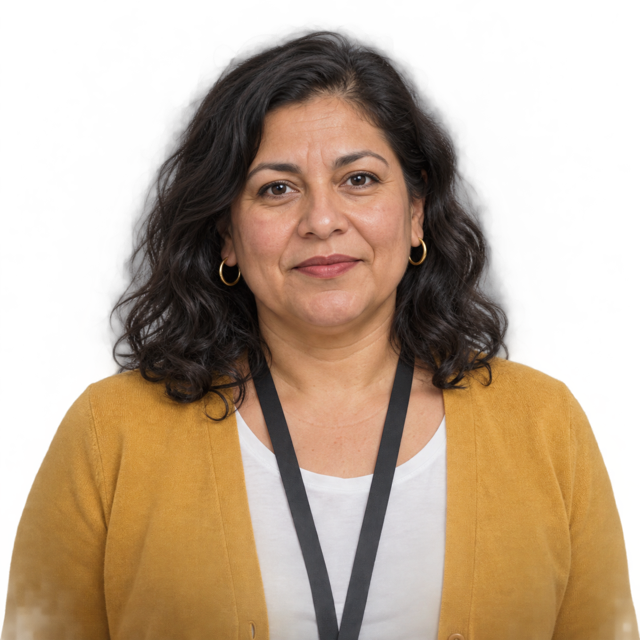
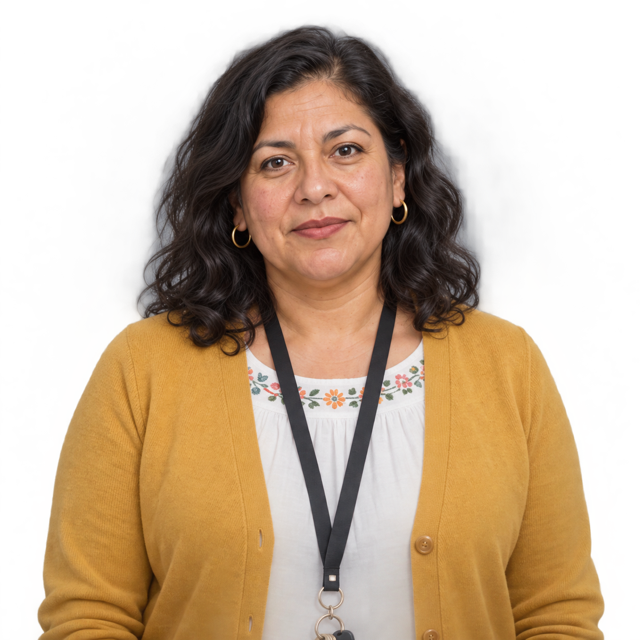
Round 7 art: radio prop, wardrobe v2 for Don Aurelio (guayabera) and Pilar (embroidered neckline); assets rebuilt

diff --git a/image_generation/187_ch_mx_leader_sep_fig_stand_A_v2.md b/image_generation/187_ch_mx_leader_sep_fig_stand_A_v2.md
@@ -11,7 +11,7 @@ depends_on: ["ch_mx_leader_sep_ref_A_v2"]
 attach: "out/ch_mx_leader_sep_ref_A_v2.png"
 save_image_as: "out/ch_mx_leader_sep_fig_stand_A_v2.png"
 save_prompt_used_as: "out/ch_mx_leader_sep_fig_stand_A_v2.prompt.txt"
-status: "pending"
+status: "done"
 ---
 
 # ch_mx_leader_sep_fig_stand_A_v2

diff --git a/image_generation/192_ch_mx_leader_int_fig_stand_A_v2.md b/image_generation/192_ch_mx_leader_int_fig_stand_A_v2.md
@@ -11,7 +11,7 @@ depends_on: ["ch_mx_leader_int_ref_A_v2"]
 attach: "out/ch_mx_leader_int_ref_A_v2.png"
 save_image_as: "out/ch_mx_leader_int_fig_stand_A_v2.png"
 save_prompt_used_as: "out/ch_mx_leader_int_fig_stand_A_v2.prompt.txt"
-status: "pending"
+status: "done"
 ---
 
 # ch_mx_leader_int_fig_stand_A_v2

diff --git a/image_generation/184_ch_mx_leader_sep_neutral_A_v2.md b/image_generation/184_ch_mx_leader_sep_neutral_A_v2.md
@@ -11,7 +11,7 @@ depends_on: ["ch_mx_leader_sep_ref_A_v2"]
 attach: "out/ch_mx_leader_sep_ref_A_v2.png"
 save_image_as: "out/ch_mx_leader_sep_neutral_A_v2.png"
 save_prompt_used_as: "out/ch_mx_leader_sep_neutral_A_v2.prompt.txt"
-status: "pending"
+status: "done"
 ---
 
 # ch_mx_leader_sep_neutral_A_v2

diff --git a/image_generation/186_ch_mx_leader_sep_guarded_A_v2.md b/image_generation/186_ch_mx_leader_sep_guarded_A_v2.md
@@ -11,7 +11,7 @@ depends_on: ["ch_mx_leader_sep_ref_A_v2"]
 attach: "out/ch_mx_leader_sep_ref_A_v2.png"
 save_image_as: "out/ch_mx_leader_sep_guarded_A_v2.png"
 save_prompt_used_as: "out/ch_mx_leader_sep_guarded_A_v2.prompt.txt"
-status: "pending"
+status: "done"
 ---
 
 # ch_mx_leader_sep_guarded_A_v2

diff --git a/image_generation/189_ch_mx_leader_int_neutral_A_v2.md b/image_generation/189_ch_mx_leader_int_neutral_A_v2.md
@@ -11,7 +11,7 @@ depends_on: ["ch_mx_leader_int_ref_A_v2"]
 attach: "out/ch_mx_leader_int_ref_A_v2.png"
 save_image_as: "out/ch_mx_leader_int_neutral_A_v2.png"
 save_prompt_used_as: "out/ch_mx_leader_int_neutral_A_v2.prompt.txt"
-status: "pending"
+status: "done"
 ---
 
 # ch_mx_leader_int_neutral_A_v2

diff --git a/image_generation/191_ch_mx_leader_int_guarded_A_v2.md b/image_generation/191_ch_mx_leader_int_guarded_A_v2.md
@@ -11,7 +11,7 @@ depends_on: ["ch_mx_leader_int_ref_A_v2"]
 attach: "out/ch_mx_leader_int_ref_A_v2.png"
 save_image_as: "out/ch_mx_leader_int_guarded_A_v2.png"
 save_prompt_used_as: "out/ch_mx_leader_int_guarded_A_v2.prompt.txt"
-status: "pending"
+status: "done"
 ---
 
 # ch_mx_leader_int_guarded_A_v2

diff --git a/image_generation/185_ch_mx_leader_sep_warm_A_v2.md b/image_generation/185_ch_mx_leader_sep_warm_A_v2.md
@@ -11,7 +11,7 @@ depends_on: ["ch_mx_leader_sep_ref_A_v2"]
 attach: "out/ch_mx_leader_sep_ref_A_v2.png"
 save_image_as: "out/ch_mx_leader_sep_warm_A_v2.png"
 save_prompt_used_as: "out/ch_mx_leader_sep_warm_A_v2.prompt.txt"
-status: "pending"
+status: "done"
 ---
 
 # ch_mx_leader_sep_warm_A_v2

diff --git a/image_generation/190_ch_mx_leader_int_warm_A_v2.md b/image_generation/190_ch_mx_leader_int_warm_A_v2.md
@@ -11,7 +11,7 @@ depends_on: ["ch_mx_leader_int_ref_A_v2"]
 attach: "out/ch_mx_leader_int_ref_A_v2.png"
 save_image_as: "out/ch_mx_leader_int_warm_A_v2.png"
 save_prompt_used_as: "out/ch_mx_leader_int_warm_A_v2.prompt.txt"
-status: "pending"
+status: "done"
 ---
 
 # ch_mx_leader_int_warm_A_v2

diff --git a/image_generation/183_ch_mx_leader_sep_ref_A_v2.md b/image_generation/183_ch_mx_leader_sep_ref_A_v2.md
@@ -11,7 +11,7 @@ depends_on: ["ch_mx_leader_sep_ref_A"]
 attach: "out/ch_mx_leader_sep_ref_A.png"
 save_image_as: "out/ch_mx_leader_sep_ref_A_v2.png"
 save_prompt_used_as: "out/ch_mx_leader_sep_ref_A_v2.prompt.txt"
-status: "pending"
+status: "done"
 ---
 
 # ch_mx_leader_sep_ref_A_v2

diff --git a/image_generation/188_ch_mx_leader_int_ref_A_v2.md b/image_generation/188_ch_mx_leader_int_ref_A_v2.md
@@ -11,7 +11,7 @@ depends_on: ["ch_mx_leader_int_ref_A"]
 attach: "out/ch_mx_leader_int_ref_A.png"
 save_image_as: "out/ch_mx_leader_int_ref_A_v2.png"
 save_prompt_used_as: "out/ch_mx_leader_int_ref_A_v2.prompt.txt"
-status: "pending"
+status: "done"
 ---
 
 # ch_mx_leader_int_ref_A_v2

diff --git a/image_generation/182_prop_radio_A.md b/image_generation/182_prop_radio_A.md
@@ -11,7 +11,7 @@ depends_on: []
 attach: "none"
 save_image_as: "out/prop_radio_A.png"
 save_prompt_used_as: "out/prop_radio_A.prompt.txt"
-status: "pending"
+status: "done"
 ---
 
 # prop_radio_A
